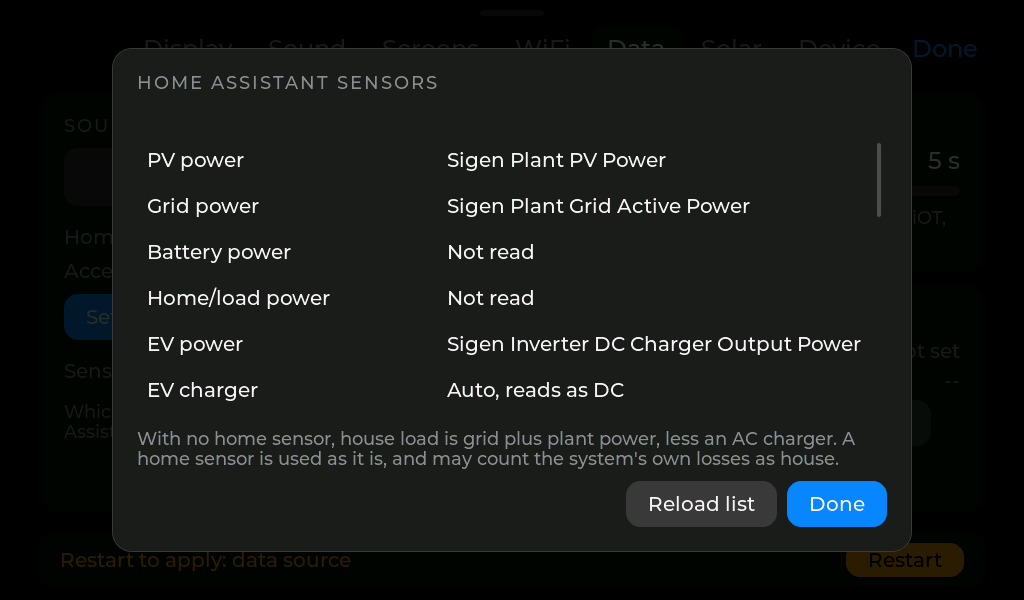
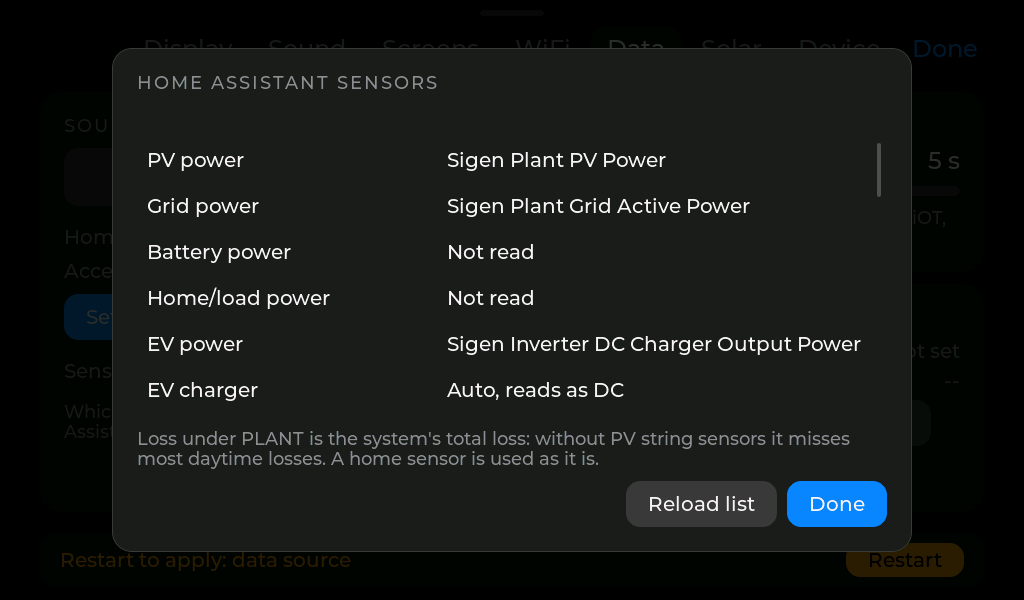
Describe the strings-based loss and off-grid leg in the README
UPSTREAM.md logs the pull and drops the row that was waiting on it.

Changed region(s): [[0.125, 0.72, 0.8438, 0.78], [0.8438, 0.33, 0.875, 0.36]]

diff --git a/UPSTREAM.md b/UPSTREAM.md
@@ -139,7 +139,6 @@ one up, and delete the row once the pull lands and is in the pull log.
 | 2026-10-27, Phase 0a | `src/device/modbus_api.cpp` | Calls `NetworkClient::flush()`, which Arduino 3.3 deprecates in favour of `clear()`. Fix it when SigenStorPuck moves to 3.3.8 (step 3 of the plan above). The panel's own copy in `settings_server.cpp` went with the web interface | A deprecation warning on every panel build. It still works |
 | 2026-10-27, settings sheet | `src/device/updater.h` | Optional. The panel shows install progress, through its own `updater_progress.h` beside the verbatim header. If the Puck wants a progress ring too, add `updater_progress_percent()` to `updater.h` upstream and delete the panel's extra header | Nothing breaks: the panel's addition sits beside the shared header |
 | 2026-10-28, settings sheet | `src/enrol_url.{h,cpp}` | Optional. Take in `kiosk_code_tidy()` from the panel's `src/kiosk_code.{h,cpp}` (beside `enrol_url_parse()`, or as its own shared file) and use it on the web page's token field. The header also predates v0.38: it says the device never asks for the server and token apart, and calls the token 43 characters. Codes are now 20 | The panel keeps its own `kiosk_code.{h,cpp}`. The Puck's web page saves a typed code as given, spaces and capitals included; the server still matches it |
-| 2026-11-26, losses | `src/modbus_regs.{h,cpp}`, `src/device/modbus_api.cpp`, `src/power_balance.{h,cpp}`, `src/home_assistant.{h,cpp}`, `src/sim/selftest.cpp` | The loss under PLANT as the system's total, as SigenStorDisplay 0.47.6 does: strings (Σ V × I from each inverter's 31025 count, PV1–4 at 31027, PV5–16 at 31042) − battery − plant − DC charger, falling back to the Solar figure when any inverter's string read fails. On Home Assistant, an optional string-power mapping. Being done in a SigenStorPuck session | On Modbus and Home Assistant the loss reads about zero while the sun is up. The server source already shows the total from 0.47.6 |
 | 2026-11-26, losses | `src/home_assistant_history.{h,cpp}` | The day's load curve restored from Home Assistant's history is still `PV − battery + grid` when no home sensor is chosen, so it counts the system's losses as house. Since 0.17.1 the live figure is AC-side. Fetch the plant sensor's history too, and use `grid + plant + DC charger` (house plus EV, as the Load series holds), with `ha_ev_is_dc()` saying which kind the EV sensor is | On Home Assistant with no home sensor, the restored part of today's Home use curve sits higher than the live part by the losses, about 0.4 kW on a grid-charging night |
 | 2026-10-27, Phase 0a | `src/display.h`, `src/touch.h` | Their comments describe the CO5300 panel and CST9217 touch. The contract is generic, so describe it generically | Comments name the wrong chips. The functions are right |
 
@@ -151,5 +150,6 @@ one up, and delete the row once the pull lands and is in the pull log.
 | 2026-10-27 | `18c8451` | `src/ui/chart_band.cpp`: the column cap follows `PUCK_LCD_WIDTH`, so the panel's charts can run the full 1024 px. Made upstream for this repo |
 | 2026-10-27 | `f414186` | `src/ui/chart_band.cpp`: an optional anti-aliased chart outline, chosen by `PUCK_CHART_SMOOTH_EDGE` in the board profile; on here, off on both Puck boards. Made upstream for this repo |
 | 2026-11-14 | `debfd7c` (v0.16.0) | The Events screen's shared half, made upstream for this repo: `src/events.{h,cpp}` (the /api/events model, parser and wording), the fetch in `sigen_api` and `poller` (server source, every 5 min), the `events` capability in `data_source`, `history_timezone()`, `PUCK_SCREEN_EVENTS` and 16-bit `PuckScreenMask` in `ui/ui.h`, `ui/screen_events.h`, the selftest cases and `test/fixtures/events.json`. Fonts regenerated with the en dash (U+2013); the panel's subsets were identical to the Puck's, so the files were copied |
+| 2026-11-26 | `63a6d9a` (v0.17.2) | The loss under PLANT as the system's total, as SigenStorDisplay 0.47.6 sends it: strings (V × I from each inverter's 31025 count, PV1–4 at 31027, PV5–16 at 31042) − battery − plant − DC charger in `power_balance`, read in `modbus_regs` and `modbus_api` (an inverter that refuses them is left alone for ten minutes), and optional PV1–4 voltage and current mappings in `home_assistant`, with the selftest's string cases. The panel's own half: V, mV, A and mA sensors with "pv" in the ID in `ha_catalog`'s list, the note on the sensors list, and "Off" on the grid leg when the plant is off grid (`52c7cbb`, made by hand in `src/ui_panel/screen_power.cpp`) |
 | 2026-11-26 | `9b790a9` (v0.17.1) | House load on the AC side and the system's losses, matching SigenStorDisplay 0.47.3: the new `src/power_balance.{h,cpp}`, used by `modbus_regs` (AC and DC chargers read apart) and `home_assistant` (`HaEvKind`, `ha_ev_is_dc()`, `HaParseOptions`); `power.losses`, `today.losses` and the `*_losses` flows in `snapshot`; `home_assistant_api` passing the EV kind; the selftest's five reference cases; fixtures 02 and 04 with losses, and the new 10 and 11, grid-charging nights. The panel's own half: `ha_ev_kind` in `settings`, the EV charger row on the sensors list, `PUCK_COLOUR_LOSSES`, and the Flows and Power screens |
 | 2026-11-23 | `846660e` | `src/ui/ui.h`: `PUCK_SCREEN_ENVIRONMENT` (id 9) for the panel's EnViOT screen, `PUCK_PANEL_ONLY_SCREENS`, which every Puck UI drops, and `UiConfig::with_environment_screen` (false unless the panel sets it). Made upstream for this repo |

diff --git a/README.md b/README.md
@@ -84,7 +84,7 @@ untouched.
 | | |
 |:--:|:--:|
 | <img src="docs/img/power.png" width="420" alt="Power flow"> | <img src="docs/img/battery.png" width="420" alt="Battery"> |
-| **Power**: what is happening right now. Solar at the top, battery and home to the right, grid and EV to the left, all around the plant in the middle, which shows its own power and, below it in pink, what the system is losing in conversion and standby. Dots run along each leg in the direction the power is going: slowly near zero, faster as it rises towards 20 kW. The bar around the edge is your battery's state of charge.<br><br>*Works on all three sources when the values are available.* | **Battery**: charge level, kWh stored, and what it is doing now, over the day's charge curve. Health and temperature on the right.<br><br>*Works on all three sources. On Modbus, temperature needs an inverter added under Devices; on Home Assistant, each figure needs its sensor chosen.* |
+| **Power**: what is happening right now. Solar at the top, battery and home to the right, grid and EV to the left, all around the plant in the middle, which shows its own power and, below it in pink, what the system as a whole is losing in conversion and standby. When the plant is off grid, the grid leg reads **Off** in amber. Dots run along each leg in the direction the power is going: slowly near zero, faster as it rises towards 20 kW. The bar around the edge is your battery's state of charge.<br><br>*Works on all three sources when the values are available.* | **Battery**: charge level, kWh stored, and what it is doing now, over the day's charge curve. Health and temperature on the right.<br><br>*Works on all three sources. On Modbus, temperature needs an inverter added under Devices; on Home Assistant, each figure needs its sensor chosen.* |
 | <img src="docs/img/solar.png" width="420" alt="Solar"> | <img src="docs/img/load.png" width="420" alt="Home use"> |
 | **Solar**: generated so far today and live output, over the day's curve with the forecast behind it. The forecast total and what is still to come are on the right. The bar around the edge is progress against the day's forecast.<br><br>*Works on all three sources.* | **Home use**: everything used today, with what is being drawn now and how self-sufficient you have been.<br><br>*Partial on Modbus and Home Assistant.* The total, live figure and locally recorded curve work. The breakdown by source needs a **SigenStorDisplay Server**. |
 | <img src="docs/img/grid.png" width="420" alt="Grid"> | <img src="docs/img/flows.png" width="420" alt="Energy flows"> |
@@ -183,7 +183,8 @@ takes effect after a restart; the panel offers one.
 1. Choose **Modbus**.
 2. Tap **Set** and enter the IP address of your inverter or gateway.
 3. Optionally, tap **Edit** by Devices. Add your inverter for battery temperature, grid
-   frequency and voltage, and the daily totals. Add a charger, if you have one, for EV
+   frequency and voltage, the daily totals, and its PV strings, which the loss under
+   PLANT is measured against. Add a charger, if you have one, for EV
    power. Use the IDs the Sigen app lists. The plant itself is `247` unless you have
    changed it.
 
@@ -238,13 +239,21 @@ access at once.
 **House load and losses.** With no home/load sensor chosen, the panel works house load
 out on the AC side, as SigenStorDisplay does: `home = max(0, grid + plant − AC charger)`.
 That leaves the system's own losses (conversion, standby, battery heating) out of the
-house figure and shows them under PLANT on the Power screen instead:
-`losses = PV − battery − plant − DC charger`. The plant's power is negative while it takes
-AC in. Without a plant sensor, house load falls back to `PV − battery + grid − EV`, which
+house figure and shows them under PLANT on the Power screen instead, as the system's total
+loss: `losses = strings − battery − plant − DC charger`, where *strings* is voltage ×
+current summed over the PV strings. Choose the **PV1–PV4 voltage and current** sensors if
+you have them (the Sigen integration's are `sensor.sigen_inverter_pv1_voltage` and so on).
+Without them the panel uses PV power instead, which is already net of nearly every loss
+while the sun is up, so the loss shown misses most of what happens in daylight. A string
+counts only when both its sensors are chosen, and if one is unavailable the panel falls
+back rather than show a total short by a string. The plant's power is negative while it
+takes AC in. Without a plant sensor, house load falls back to `PV − battery + grid − EV`, which
 counts the losses as house, and no loss is shown. A home/load sensor you choose is used as
 it is; Sigen's own consumed-power sensor may count the losses as house, so leave it unread
 to have the panel do the AC-side sum. Modbus works the same way from the plant's
-registers, with the AC and DC chargers read apart.
+registers, with the AC and DC chargers read apart and the strings read from each inverter
+added under Devices. The server source shows the server's own figure, which is the total
+from SigenStorDisplay 0.47.6.
 
 The panel sends one [`POST /api/template`](https://developers.home-assistant.io/docs/api/rest/#post-apitemplate)
 per reading. Home Assistant answers with only the chosen sensors and their units, so the
